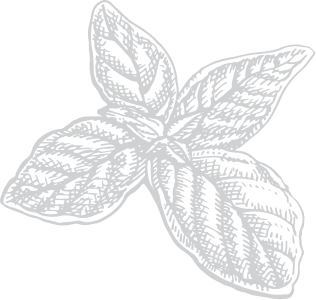
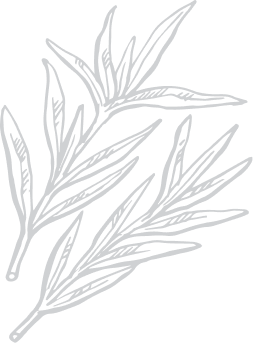
restaurant site

diff --git a/index.html b/index.html
@@ -67,32 +67,148 @@
     </div>
 
     <!-- Main Section -->
-    <main class="grid grid-cols-1 md:grid-cols-2 px-6 sm:px-16 py-8 gap-8">
+    <main class="grid grid-cols-1 md:grid-cols-2 px-6 sm:px-16 py-8 gap-8 relative">
+
         <!-- Left Section (Text and Buttons) -->
-        <div class="left flex flex-col justify-center items-start text-center md:text-left space-y-6">
+        <div class="left flex flex-col justify-center items-center text-center md:items-start md:text-left space-y-6 mt-15">
+
+        <div class="">
+            <img src="Group 1.png" alt="">
+        </div>
+
             <h1 class="text-[32px] sm:text-[40px] font-bold">
                 We provide the best food for you
             </h1>
-            <p class="text-base sm:text-lg">
+            <p class="text-base sm:text-lg max-w-xs sm:max-w-md">
                 Lorem ipsum dolor sit amet consectetur adipisicing elit. Atque adipisci dicta impedit iste ratione earum accusantium quae, autem saepe illo odio dolorum inventore.
             </p>
-            <div class="flex items-center space-x-4">
-                <button class="bg-black text-white px-6 py-2 rounded-tl-3xl rounded-br-3xl rounded-tr-md rounded-bl-md">Menu</button>
-                <button class="bg-buttonbg text-white px-8 py-2 rounded-tl-3xl rounded-br-3xl rounded-tr-md rounded-bl-md">Book a table</button>
+
+            <!-- Buttons Centered on Mobile and Aligned Left on Large Screens -->
+            <div class="flex flex-col sm:flex-row justify-center md:justify-start items-center space-y-4 sm:space-y-0 sm:space-x-4">
+                <button class="bg-black text-white px-6 py-2 rounded-tl-3xl rounded-br-3xl rounded-tr-md rounded-bl-md shadow-lg">Menu</button>
+                <button class="bg-buttonbg text-white px-8 py-2 rounded-tl-3xl rounded-br-3xl rounded-tr-md rounded-bl-md shadow-lg">Book a table</button>
             </div>
-            <!-- Social Icons -->
-            <div class="mt-4 flex space-x-4">
+
+            <!-- Social Icons Centered on Mobile, Left Aligned on Large Screens -->
+            <div class="mt-4 flex items-center justify-center md:justify-start space-x-4">
                 <i class="fa-brands fa-facebook border-2 border-black p-2 rounded-full"></i>
                 <i class="fa-brands fa-instagram border-2 border-black p-2 rounded-full"></i>
                 <i class="fa-brands fa-x-twitter border-2 border-black p-2 rounded-full"></i>
+                <div class="line h-[1px] w-[200px] text-black bg-black ms-5"></div>
             </div>
         </div>
 
         <!-- Right Section (Image) -->
-        <div class="right flex items-center justify-center">
-            <img src="Mask group.png" alt="" class="w-full sm:w-[316px] h-auto object-cover">
+
+        <div class="right flex items-center justify-center relative">
+            
+            <div class="absolute">
+                <img src="Mask group.png" alt="" class="w-full sm:w-[316px] h-auto object-cover">
+            </div>
+
+            <div class="absolute bottom-[240px] h-[300px] w-[300px] start-[40px] -z-[1]">
+                <img src="Group-1.png" alt="">
+            </div>
+
+            <div class="absolute h-[200px] w-[200px] bottom-[350px] end-[50px] -z-[1]">
+                <img src="Group (2).png" alt="">
+            </div>
+            
+            <div class="absolute h-[170px] w-[170px] bottom-[110px] end-[40px] -z-[1]">
+                <img src="Group.png" alt="">
+            </div>
+    
         </div>
+
+        <div class="absolute end-[450px] top-[300px] h-[200px] w-[200px]">
+            <img src="dish-2 1.png" alt="">
+        </div>
+
     </main>
+
+    <!-- Our Special Dishes -->
+
+    <section class="w-full bg-zinc-100 px-16 h-auto">
+        <div class="pt-9">
+            <h1 class="pt-[40px] text-[32px] sm:text-[40px] font-bold flex items-center justify-center">Our Special Dishes</h1>
+            <p class="flex items-center justify-center text-slate-600 sm:text-[13px] mt-2">Lorem ipsum dolor sit <br> amet, consectetur adipiscing elit, sed <br> do eiusmod tempor incididunt </p>
+        </div>
+
+        <div class="flex flex-nowrap mt-[110px]">
+            <div class="absolute top-[720px]  start-[380px] h-[100px] w-[150px]">
+                <img src="Group (2).png" alt="" class="h-[150px] w-[200px]">
+            </div>
+            <div class="absolute end-[360px]  top-[720px]">
+                <img src="Group.png" alt="" class="h-[150px] w-[150px]">
+            </div>
+    
+            <div class="relative start-[50px] m-10 mt-20">
+                <img src="Rectangle 7.png" alt="">
+                <h1 class="absolute font-bold bottom-[150px] start-[30px] flex justify-center">Lumpia with the source</h1>
+                <p class=" absolute font-lighter bottom-[50px] start-[50px] flex justify-center items-center text-center">Lorem ipsum dolor <br> sit ametconsectetur,  <br> adipisicing elit</p>
+            </div>
+    
+            <div class="absolute top-[990px] start-[196px] items-center">
+                <img src="dish-1 1.png" alt="" class="h-[150px] w-[150px]">
+            </div>
+    
+            <div class="absolute top-[1010px] start-[295px]">
+                <img src="Price.png" alt="">
+            </div>
+    
+            
+            <div class="relative start-[50px] m-10 mt-20">
+                <img src="Rectangle 7.png" alt="">
+                <h1 class="absolute font-bold bottom-[150px] start-[70px] flex justify-center">Fish and Veggie</h1>
+                <p class=" absolute font-lighter bottom-[55px] start-[55px] flex justify-center items-center  text-center">Lorem ipsum dolor <br> sit ametconsectetur,  <br> adipisicing elit.</p>
+            </div>
+    
+            <div class="absolute top-[990px] start-[510px]">
+                <img src="dish-3 1.png" alt="" class="h-[150px] w-[150px]">
+            </div>
+    
+            <div class="absolute top-[1020px] start-[610px]">
+                <img src="Price.png" alt="">
+            </div>
+    
+            <div class="relative start-[50px] m-10 mt-20">
+                <img src="Rectangle 7.png" alt="">
+                <h1 class="absolute font-bold bottom-[150px] start-[90px] flex justify-center">Tofu chili</h1>
+                <p class=" absolute font-lighter bottom-[55px] start-[50px] flex justify-center items-center  text-center">Lorem ipsum dolor <br> sit ametconsectetur,  <br> adipisicing elit.</p>
+            </div>
+    
+            <div class="absolute top-[990px] start-[826px]">
+                <img src="dish-5.png" alt="" class="h-[150px] w-[150px]">
+            </div>
+
+            <div class="absolute top-[1020px] start-[920px]">
+                <img src="Price (2).png" alt="">
+            </div>
+    
+            <div class="relative start-[50px] m-10 mt-20">
+                <img src="Rectangle 7.png" alt="">
+                <h1 class="absolute font-bold bottom-[150px] start-[55px] flex justify-center">Egg and cocumber</h1>
+                <p class=" absolute font-lighter bottom-[55px] start-[55px] flex justify-center items-center  text-center">Lorem ipsum dolor <br> sit ametconsectetur,  <br> adipisicing elit.</p>
+            </div>
+
+            <div class="absolute top-[990px] start-[1150px]">
+                <img src="dish-4.png" alt="" class="h-[150px] w-[150px]">
+            </div>
+
+            <div class="absolute top-[1010px] start-[1240px]">
+                <img src="Price (2).png" alt="">
+            </div>
+
+            <div class="absolute start-[340px] bottom-[-700px]">
+                <img src="Group (3).png" alt="">
+            </div>
+
+            <div class="absolute start-[500px] bottom-[-800px]">
+                <img src="Group (5).png" alt="">
+            </div>
+
+    </section>
+
 
     <script>
         const menuToggle = document.getElementById('menu-toggle');
